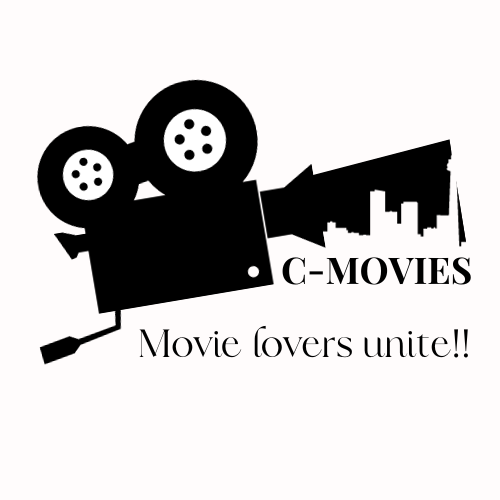
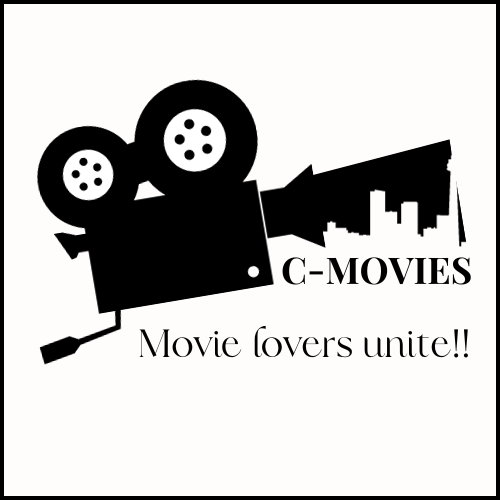
Fix project borders and remove 'New Graduate'

Changed region(s): [[0.0, 0.0, 1.0, 1.0]]

diff --git a/index.html b/index.html
@@ -24,7 +24,7 @@
     </div>
 
     <div class="intro-description">
-        <div class="header">New Graduate, Computer Science</div>
+        <div class="header">Computer Scientist</div>
         <p class="body">
             Detail-oriented with excellent communication, interpersonal, and creative thinking skills.<br />Highly
             motivated with experience in developing and implementing software solutions with proven expertise in

diff --git a/styletwo.css b/styletwo.css
@@ -168,6 +168,10 @@
     line-height: 27.3px;
   }
 
+  .projects .row .column img{
+    border: 20px solid black;
+  }
+
   /*Contact Section*/
   .portfolio-section .contact .headers{
     margin-top: 35px;
